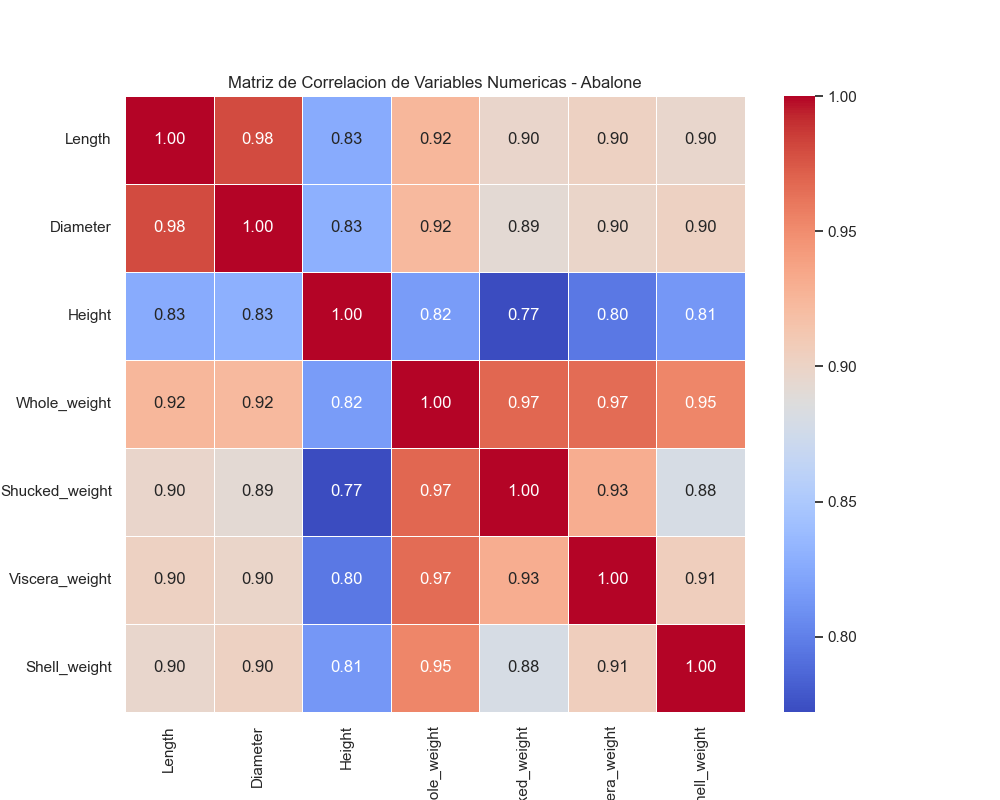
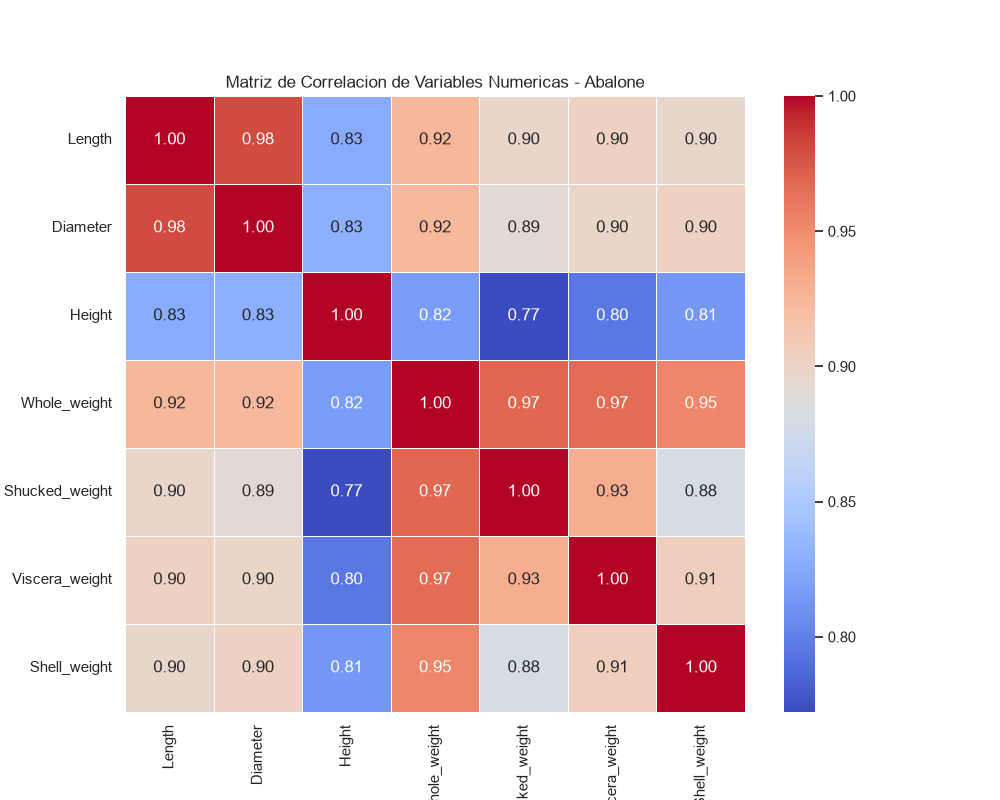
Inciso 2

diff --git a/pipeline/clasificacion_abalone.py b/pipeline/clasificacion_abalone.py
@@ -1,0 +1,110 @@
+import pandas as pd
+import numpy as np
+import os
+import joblib
+import warnings
+warnings.filterwarnings("ignore")
+from sklearn.tree import DecisionTreeClassifier
+from sklearn.linear_model import LogisticRegression
+from sklearn.preprocessing import StandardScaler
+from sklearn.pipeline import Pipeline
+from sklearn.model_selection import cross_validate
+
+def entrenar_y_evaluar():
+    print("--- CARGA DE DATOS ---")
+    ruta_csv = "Abalone/processed/abalone_minable.csv"
+    
+    if not os.path.exists(ruta_csv):
+        print(f"Error: No se encontró {ruta_csv}. Correr el ETL primero.")
+        return
+        
+    df = pd.read_csv(ruta_csv)
+    
+    X = df.drop(columns=['Rings'])
+    y = df['Rings']
+    
+    print(f"Dataset cargado. Features: {X.shape[1]}, Registros: {X.shape[0]}")
+
+    print("\n--- CONFIGURACIÓN DE MODELOS E HIPERPARÁMETROS ---")
+    
+    tree_configs = [
+        {'criterion': 'gini', 'max_depth': 5, 'min_samples_split': 100, 'min_samples_leaf': 40, 'max_leaf_nodes': 6, 'random_state': 42},
+        {'criterion': 'entropy', 'max_depth': 5, 'min_samples_split': 100, 'min_samples_leaf': 40, 'max_leaf_nodes': 6, 'random_state': 42},
+        {'criterion': 'log_loss', 'max_depth': 8, 'min_samples_split': 80, 'min_samples_leaf': 30, 'max_leaf_nodes': 10, 'random_state': 42},
+        {'criterion': 'gini', 'max_depth': 4, 'min_samples_split': 120, 'min_samples_leaf': 50, 'max_leaf_nodes': 5, 'random_state': 42},
+        {'criterion': 'entropy', 'max_depth': None, 'min_samples_split': 90, 'min_samples_leaf': 35, 'max_leaf_nodes': 8, 'random_state': 42}
+    ]
+
+    logreg_configs = [
+        {'C': 0.1, 'solver': 'lbfgs', 'max_iter': 1000},
+        {'C': 1.0, 'solver': 'lbfgs', 'max_iter': 1000},
+        {'C': 10.0, 'solver': 'lbfgs', 'max_iter': 1000},
+        {'C': 1.0, 'solver': 'saga', 'penalty': 'l1', 'max_iter': 2000},
+        {'C': 0.5, 'solver': 'newton-cg', 'max_iter': 1000}
+    ]
+
+    scoring = ['accuracy', 'precision_macro', 'recall_macro', 'f1_macro']
+    resultados_totales = []
+    os.makedirs("Abalone/models", exist_ok=True)
+
+    print("\n--- ENTRENAMIENTO Y CROSS-VALIDATION ---")
+    
+    # Evaluación Árboles de Decisión
+    print("Evaluando DecisionTree...")
+    for i, config in enumerate(tree_configs):
+        modelo = DecisionTreeClassifier(**config)
+        nombre_ejecucion = f"DecisionTree_Conf_{i+1}"
+        
+        scores = cross_validate(modelo, X, y, cv=5, scoring=scoring)
+        
+        resultados_totales.append({
+            'Algoritmo': 'DecisionTree',
+            'Configuración': f"Conf {i+1}",
+            'Accuracy': np.mean(scores['test_accuracy']),
+            'Precision': np.mean(scores['test_precision_macro']),
+            'Recall': np.mean(scores['test_recall_macro']),
+            'F1-Score': np.mean(scores['test_f1_macro'])
+        })
+        
+        modelo.fit(X, y)
+        joblib.dump(modelo, f"Abalone/models/{nombre_ejecucion}.pkl")
+        print(f"[{nombre_ejecucion}] guardado.")
+
+    # Evaluación Regresión Logística (Con StandardScaler en un Pipeline)
+    print("\nEvaluando Regresión Logística (con StandardScaler)...")
+    for i, config in enumerate(logreg_configs):
+        # El Pipeline asegura que la estandarización se aplique y se guarde con el modelo
+        modelo = Pipeline([
+            ('scaler', StandardScaler()),
+            ('logreg', LogisticRegression(**config))
+        ])
+        nombre_ejecucion = f"LogReg_Conf_{i+1}"
+        
+        scores = cross_validate(modelo, X, y, cv=5, scoring=scoring)
+        
+        resultados_totales.append({
+            'Algoritmo': 'LogisticRegression',
+            'Configuración': f"Conf {i+1}",
+            'Accuracy': np.mean(scores['test_accuracy']),
+            'Precision': np.mean(scores['test_precision_macro']),
+            'Recall': np.mean(scores['test_recall_macro']),
+            'F1-Score': np.mean(scores['test_f1_macro'])
+        })
+        
+        modelo.fit(X, y)
+        joblib.dump(modelo, f"Abalone/models/{nombre_ejecucion}.pkl")
+        print(f"[{nombre_ejecucion}] guardado.")
+
+    print("\n--- COMPARACIÓN DE RESULTADOS ---")
+    df_resultados = pd.DataFrame(resultados_totales)
+    df_resultados = df_resultados.sort_values(by='F1-Score', ascending=False)
+    
+    print("\nResultados ordenados por mejor F1-Score:")
+    print(df_resultados.to_string(index=False))
+    
+    ruta_resultados = "Abalone/processed/resultados_punto2.csv"
+    df_resultados.to_csv(ruta_resultados, index=False)
+    print(f"\nCSV generado en: {ruta_resultados}")
+
+if __name__ == '__main__':
+    entrenar_y_evaluar()
